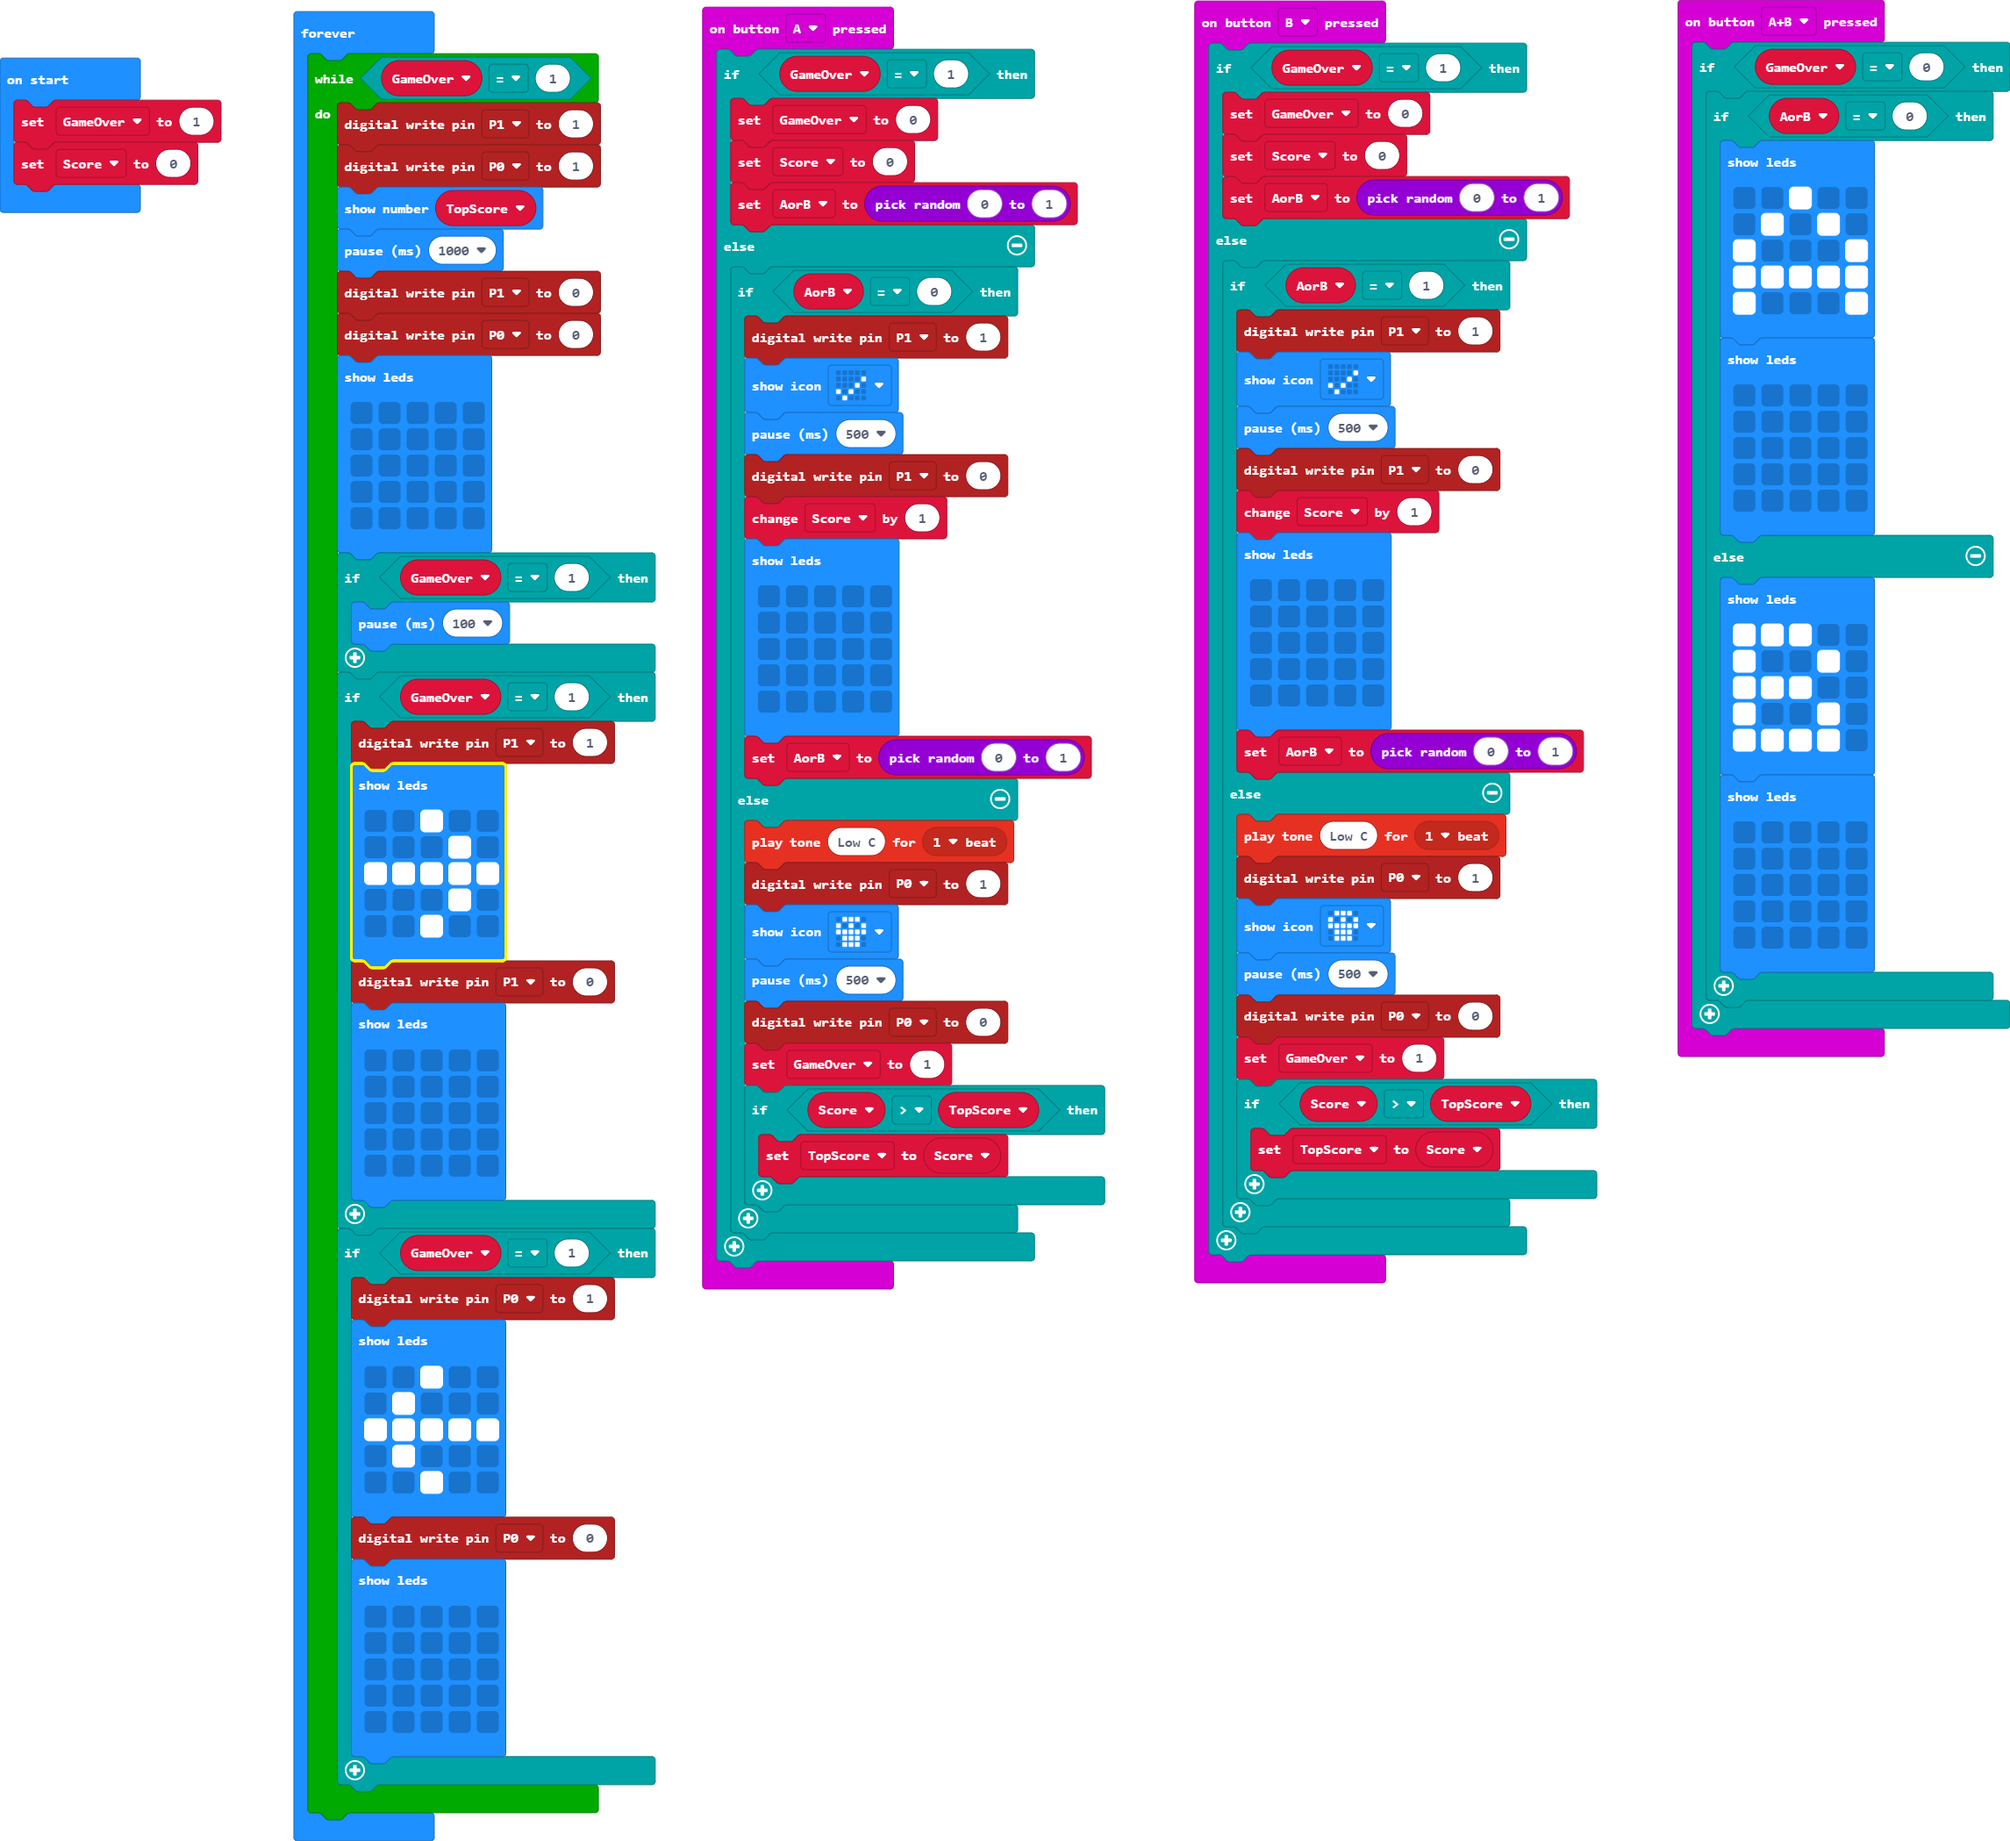
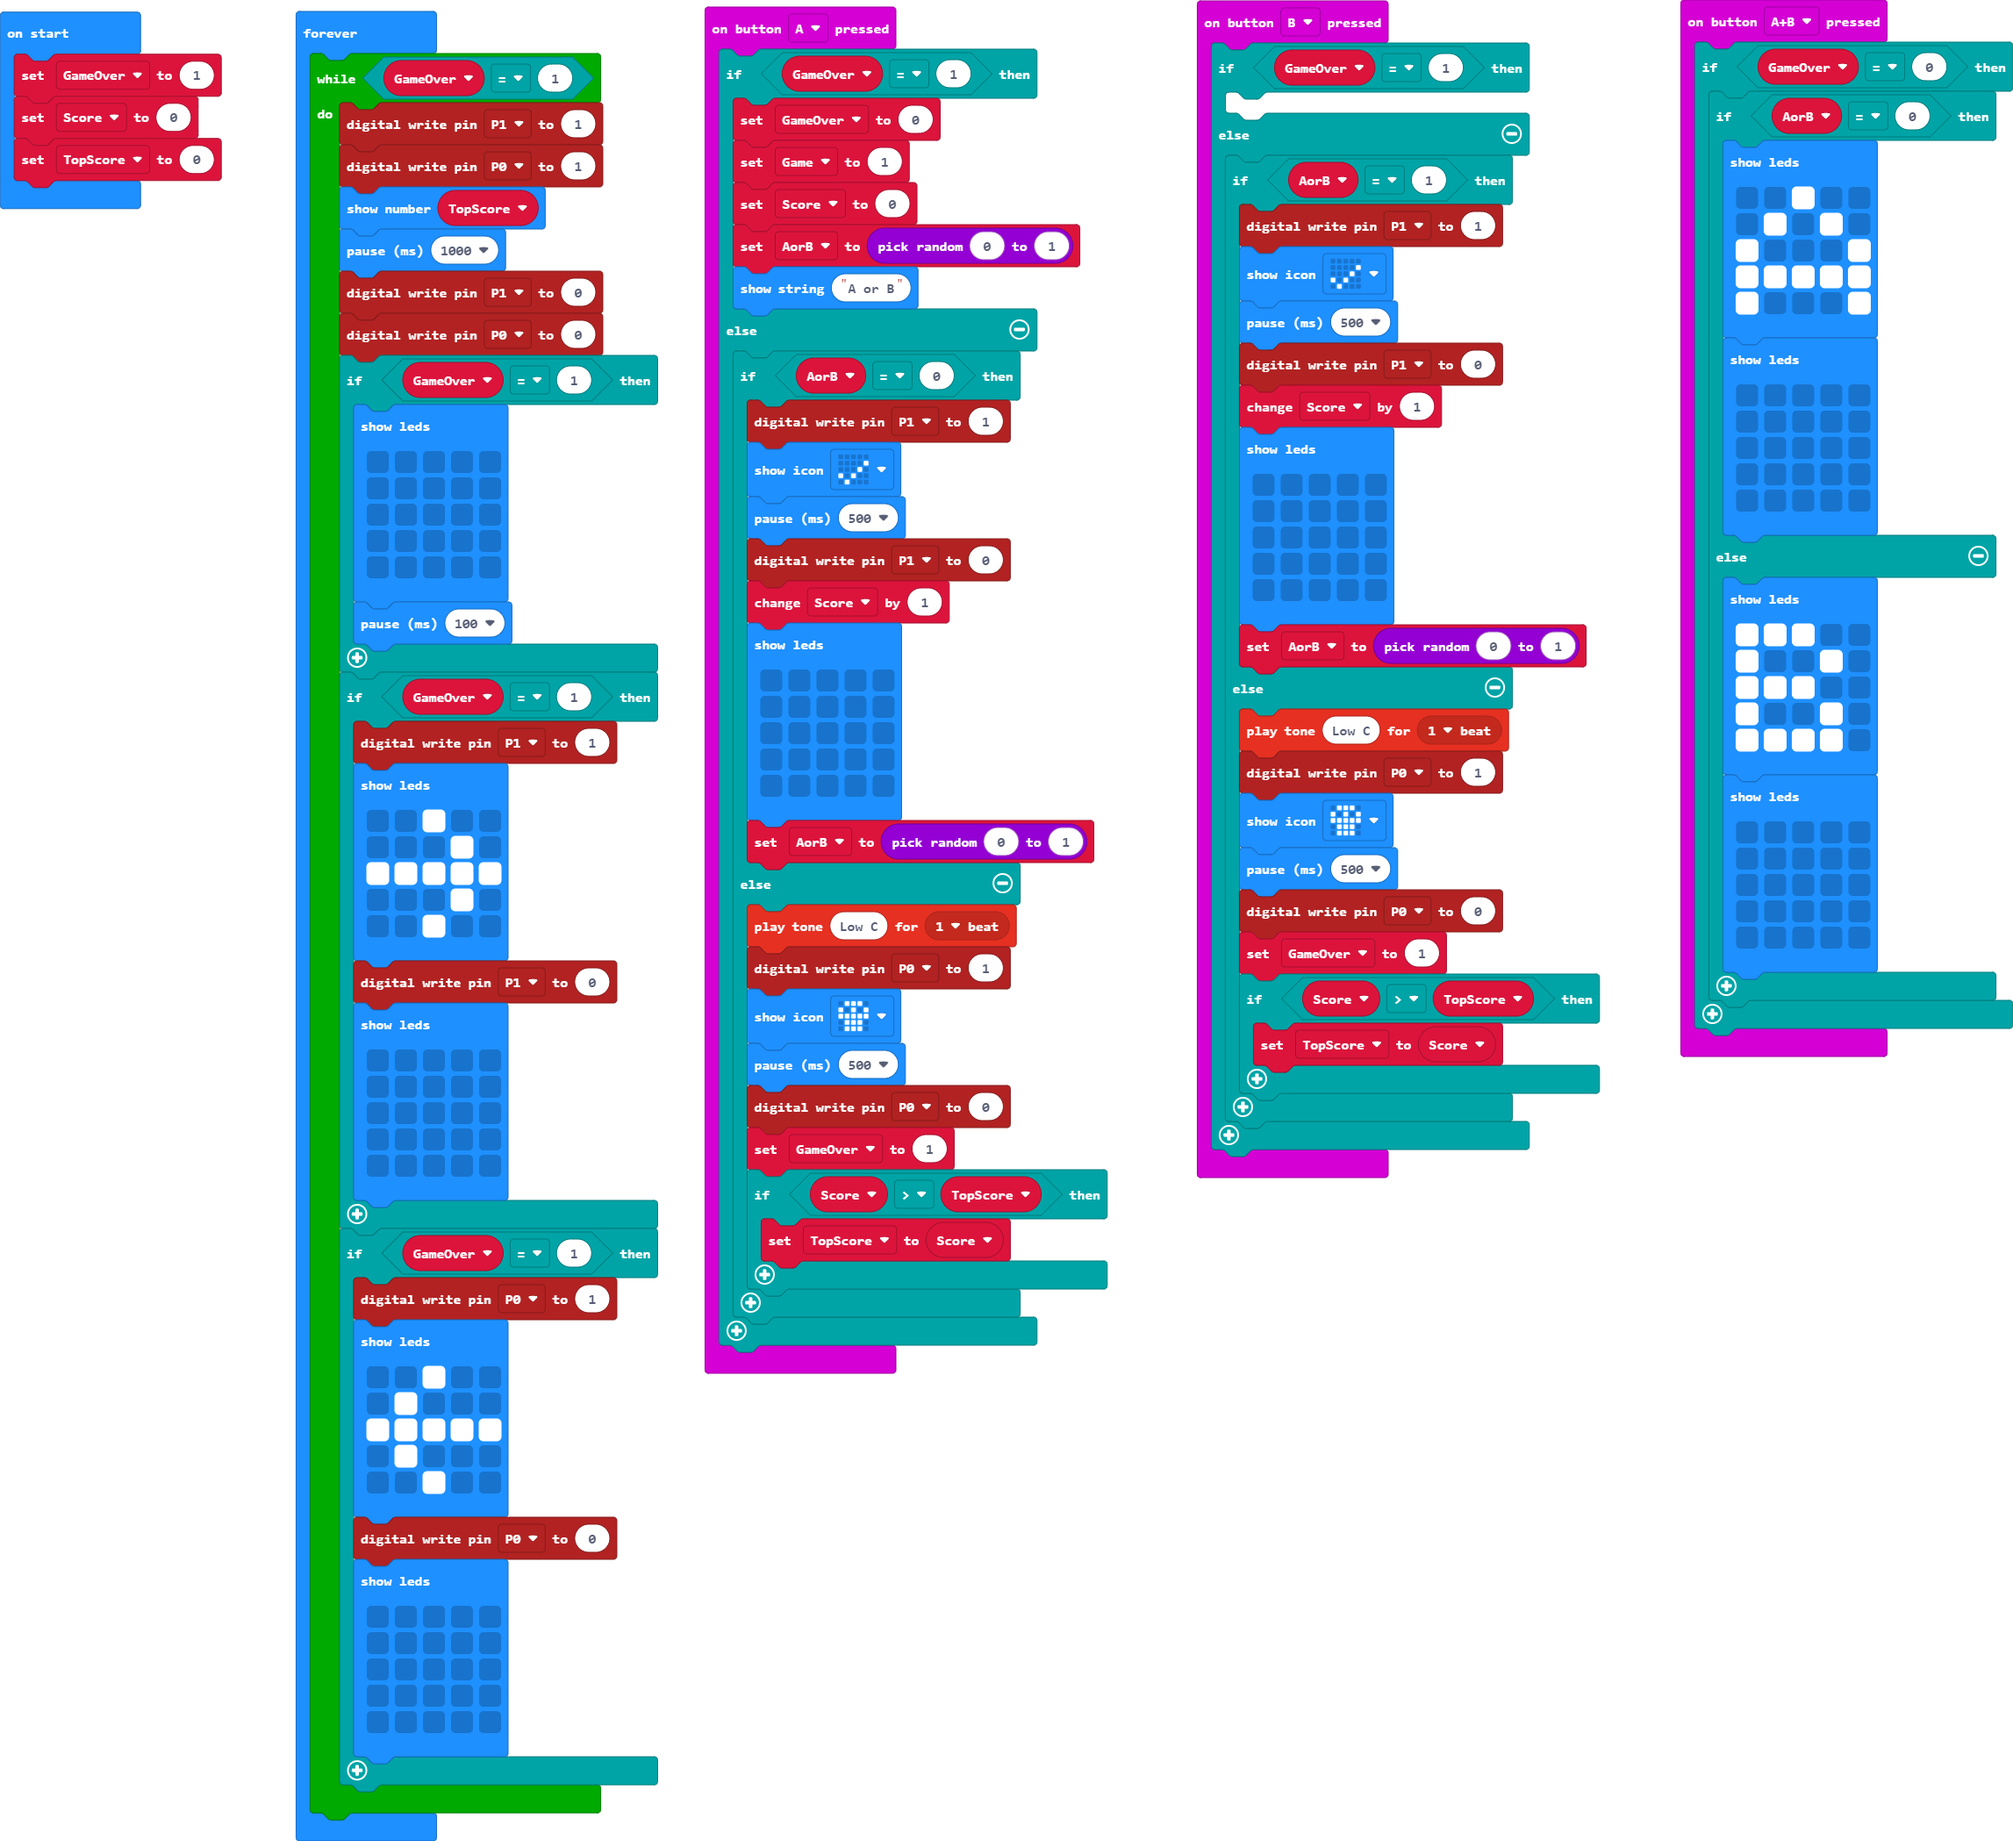
Init score and game variables. Adding a game name for A. Tweaks

diff --git a/main.ts b/main.ts
@@ -1,8 +1,10 @@
 input.onButtonPressed(Button.A, function () {
     if (GameOver == 1) {
         GameOver = 0
+        Game = 1
         Score = 0
         AorB = randint(0, 1)
+        basic.showString("A or B")
     } else {
         if (AorB == 0) {
             pins.digitalWritePin(DigitalPin.P1, 1)
@@ -68,9 +70,7 @@ input.onButtonPressed(Button.AB, function () {
 })
 input.onButtonPressed(Button.B, function () {
     if (GameOver == 1) {
-        GameOver = 0
-        Score = 0
-        AorB = randint(0, 1)
+    	
     } else {
         if (AorB == 1) {
             pins.digitalWritePin(DigitalPin.P1, 1)
@@ -99,12 +99,14 @@ input.onButtonPressed(Button.B, function () {
         }
     }
 })
-let TopScore = 0
 let AorB = 0
+let Game = 0
+let TopScore = 0
 let Score = 0
 let GameOver = 0
 GameOver = 1
 Score = 0
+TopScore = 0
 basic.forever(function () {
     while (GameOver == 1) {
         pins.digitalWritePin(DigitalPin.P1, 1)
@@ -113,14 +115,14 @@ basic.forever(function () {
         basic.pause(1000)
         pins.digitalWritePin(DigitalPin.P1, 0)
         pins.digitalWritePin(DigitalPin.P0, 0)
-        basic.showLeds(`
-            . . . . .
-            . . . . .
-            . . . . .
-            . . . . .
-            . . . . .
-            `)
         if (GameOver == 1) {
+            basic.showLeds(`
+                . . . . .
+                . . . . .
+                . . . . .
+                . . . . .
+                . . . . .
+                `)
             basic.pause(100)
         }
         if (GameOver == 1) {
